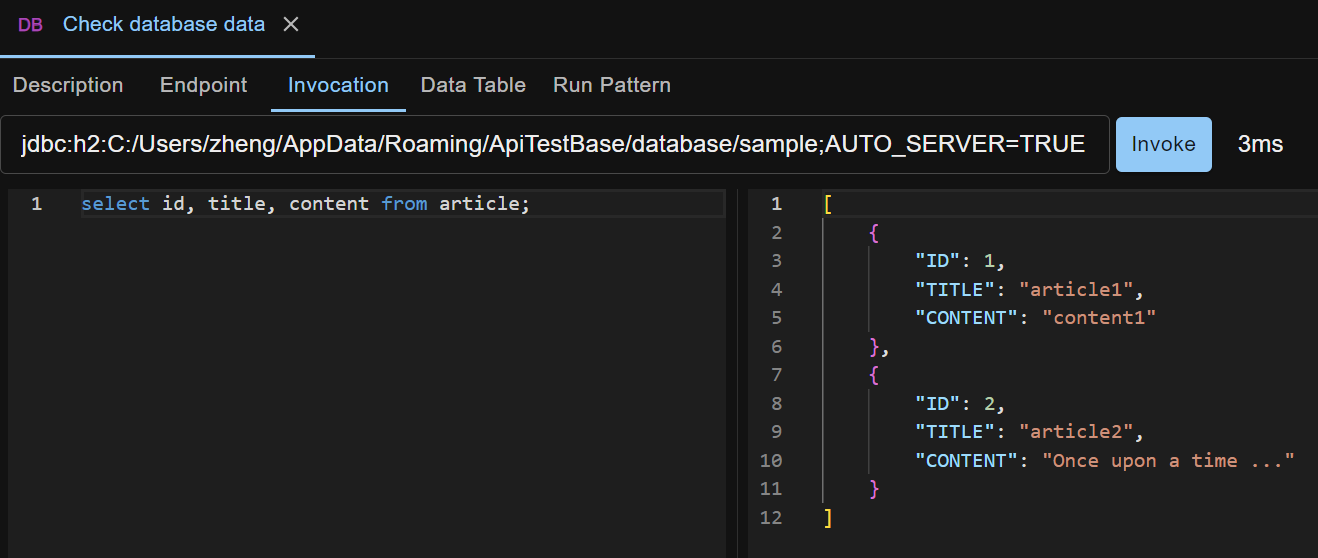
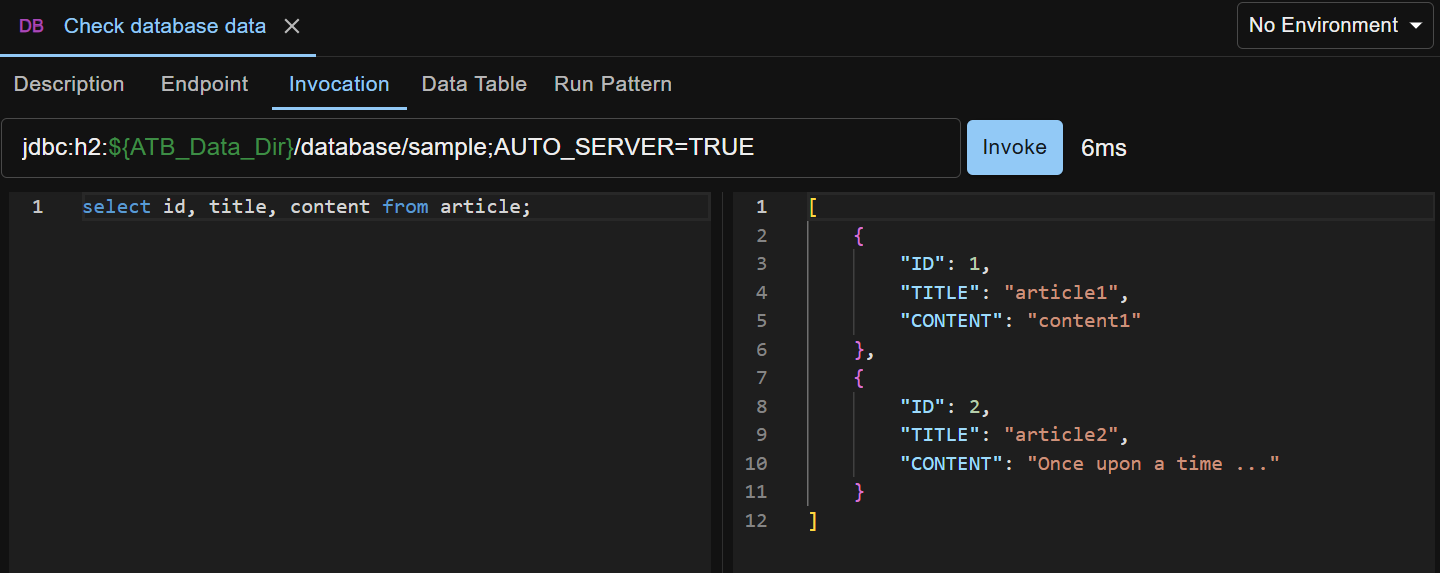
refine test case creation

diff --git a/_docs/en/creating-automated-test-case.md b/_docs/en/creating-automated-test-case.md
@@ -5,7 +5,7 @@ key: docs-creating-automated-test-case
 ---
 We are going to demo how to test a REST API that updates an article record in database. The result test case can be downloaded in section [Sample Test Case](#sample-test-case).
 
-The REST API is the sample Article API that is bundled with API Test Base. It does CRUD operations on the records in the Article table in a sample H2 database. The sample database is automatically created under `<ATB_DATA_DIR>/database` when API Test Base is launched for the first time. Refer to [Administration](/docs/en/administration) for more details.
+The REST API is the sample Article API that is bundled with API Test Base. It does CRUD operations on the records in the Article table in a `sample` H2 database. The `sample` database is automatically created under `<ATB_DATA_DIR>/database` when API Test Base is launched for the first time. Refer to [Administration](/docs/en/administration) for more details.
 
 We are planning to have three test steps in our test case
 ```
@@ -14,21 +14,29 @@ We are planning to have three test steps in our test case
 3. Check database data
 ```
 
-## Create Test Case Outline
-First of all, create a new test case, by right clicking anywhere in the left side pane and selecting `New Test Case`.
+## Create Skeleton Test Case
+First of all, create a new test case, by right clicking anywhere in the left side pane and selecting `New Test Case`. A wizard pops up.
 
-Now we can add test steps to the test case.
+![Test Case Patterns](../../screenshots/basic-use/test-case-patterns.png)
 
-Under the Test Steps tab, click `+ Test Step` dropdown button and select `Database`. Enter the name of step 1 `Set up database data`. Repeat this to add the other two test steps (one HTTP step and another Database step). The test case outline is created as shown below.
+Select the `HTTP - DB` pattern, and the pattern details form displays. Populate test case name `Update Article`, scenario `Update`, HTTP Endpoint URL `http://localhost:8090/api/articles/2`, Database Endpoint JDBC URL `jdbc:h2:${ATB_Data_Dir}/database/sample;AUTO_SERVER=TRUE`, Username `user` and Password `pass`.  
 
-![Test Case Outline](../../screenshots/basic-use/test-case-outline.png)
+![Test Case Pattern Details](../../screenshots/basic-use/test-case-pattern-details.png)
+
+Here the scenario `Update` means we are testing a resource-update scenario. HTTP Endpoint is the endpoint of the REST API we are going to test. Database Endpoint is the endpoint of the `sample` H2 database.
+
+For more details about the `${ATB_Data_Dir}` in the Database Endpoint JDBC URL, please refer to [Properties](/docs/en/properties). 
+
+Click `OK` to create the skeleton test case.
+
+Under the `Test Steps` tab, click somewhere in the blank space inside the HTTP step's name cell, and rename the step to `Invoke the API to update article`.
+
+The skeleton test case is as shown below.
+
+![Skeleton Test Case](../../screenshots/basic-use/skeleton-test-case.png)
 
 ## Populate Step 1
 Click the name of step 1 to open its edit view.
-
-Under the `Endpoint` tab, set JDBC URL `jdbc:h2:<ATB_DATA_DIR>/database/sample;AUTO_SERVER=TRUE`, replacing `<ATB_DATA_DIR>` with the value on your machine (refer to [Administration](/docs/en/administration)). The JDBC URL will be used by the test step to connect to the sample database.
-
-Then set Username to `user` and Password to `pass`.
 
 Under the `Invocation` tab, enter below SQL script.
 ```
@@ -47,9 +55,7 @@ Click the `Invoke` button to try it out (i.e. run the script), like shown below.
 ## Populate Step 2
 Open step 2 from the test case.
 
-Under the `Invocation` tab, select `PUT` from the Method dropdown list, and set URL `http://localhost:8090/api/articles/2`.
-
-Select JSON from the Body type dropdown list, and paste the request body:
+Under the `Invocation` tab, select `JSON` from the Body type dropdown list, and paste the request body:
 
 ```
 {
@@ -65,16 +71,14 @@ Click the `Invoke` button to try it out.
 
 Click the `Assertions` tab at the bottom of the screen to open the assertions panel.
 
-In the assertions panel, click `+ Assertion` dropdown button and select `StatusCodeEqual` to create a StatusCodeEqual assertion. Set the expected HTTP response status code (here 204), and click the `Verify` button to verify the assertion, as shown below.
+Select the `StatusCodeEqual` assertion and click the `Verify` button to verify the assertion, as shown below.
 
 ![HTTP Invocation and Assertion](../../screenshots/basic-use/http-invocation-and-assertion.png)
 
-More information about assertions can be found on this [page](/docs/en/assertions).
+More information about assertions can be found at [Assertions](/docs/en/assertions).
 
 ## Populate Step 3
 Open step 3 from the test case.
-
-Under the `Endpoint` tab, enter exactly the same information as in step 1 because we are interacting with the same database. The information duplication can be avoided by using `managed endpoints`. Refer to this [page](/docs/en/endpoints-management) for more details.
 
 Under the `Invocation` tab, enter SQL query `select id, title, content from article;`.
 
@@ -82,7 +86,9 @@ Click the `Invoke` button to try it out (run the query), like shown below.
 
 ![Database Check Query Result](../../screenshots/basic-use/database-check-query-result.png)
 
-Click the `Assertions` tab to open the assertions panel. In the assertions panel, click `+ Assertion` dropdown button and select `JSONEqual` to create a JSONEqual assertion. Copy the JSON string from the test step invocation response to the Expected JSON field, and click the `Verify` button to verify the assertion, as shown below.
+Click the `Assertions` tab to open the assertions panel.
+
+Select the `JSONEqual` assertion, copy the JSON string from the test step invocation response to the `Expected JSON` field, and click the `Verify` button to verify the assertion, as shown below.
 
 ![Database Check Query Result and Assertion](../../screenshots/basic-use/database-check-query-result-and-assertion.png)
 
@@ -94,8 +100,6 @@ Now we have finished editing our test case. It's time to run it. Open the test c
 Click a test step in the right side outline to open a modal and see the step's run report, like shown below.
 
 ![Test Step Run Report](../../screenshots/basic-use/test-step-run-report.png)
-
-Click the result link beside the Run button to see the whole test case run report. There is a download icon in the report for you to download the report as HTML file, which can then be used as test evidence in other places such as HP ALM.
 
 ## Sample Test Case
 The test case created above is available for download at <a href="../../sample-testcases/basic-use/Update Article.json" download>sample test case</a>. After download, right click anywhere in the left side pane on ATB UI, and select `Import Test Case` to import it.

diff --git a/_docs/en/data-driven-testing.md b/_docs/en/data-driven-testing.md
@@ -26,7 +26,7 @@ The result test case can be downloaded in section [Sample Test Case](#sample-tes
 ### Refactor the Test Case to be Data Driven
 What we got from [Creating Automated Test Case](/docs/en/creating-automated-test-case) was a test case like below
 
-![Basic Test Case](../../screenshots/basic-use/test-case-outline.png)
+![Basic Test Case](../../screenshots/basic-use/skeleton-test-case.png)
 
 Firstly, we copy the `Update Article` test case, and rename the new test case to `Update Article - Data Driven`. These actions can be done by using the context menus (right click test case or folder) in the tree pane.
 
